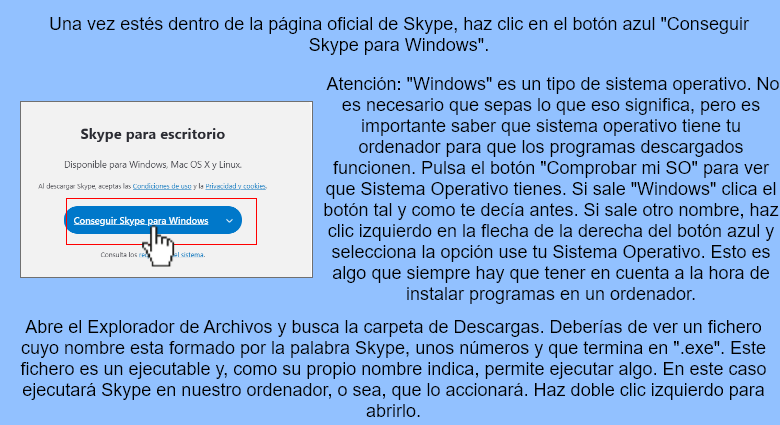
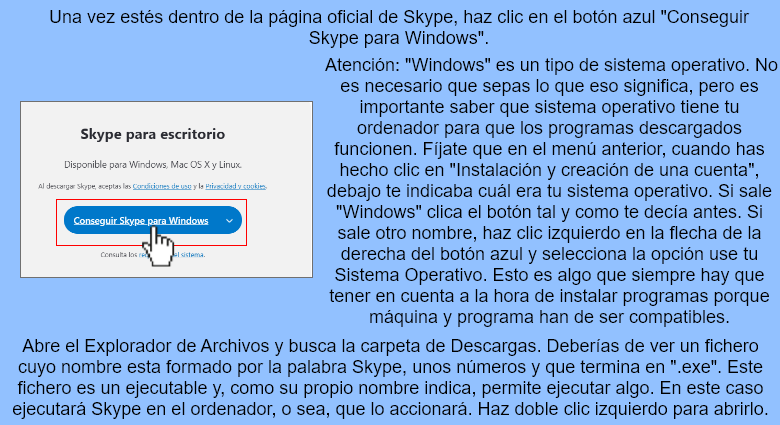
Operative System check added

diff --git a/src/components/SkypeLesson.js b/src/components/SkypeLesson.js
@@ -4,21 +4,31 @@ import {NavLink} from "react-router-dom";
 import {LessonSlider} from "./LessonSlider";
 import {useTranslation} from "react-i18next";
 
+function checkOS(platform) {
+    if (platform === "Win16" || platform ==="Win32" || platform ==="WinCE") return "Windows";
+    else if (platform === "Linux i686" || platform ==="Linux armv7l") return "Linux";
+    else return "Mac";
+}
+
 const SkypeLesson = () => {
     const [t] = useTranslation("global")
-    return(
+    return (
         <div className="center">
             <LessonSlider title="lessonContent.lesson61.title"/>
             <NavLink to={'/leccion6/inst'} style={{textDecoration: 'none'}}>
-                <Button className="skypeButton" size="large" color="primary" variant="contained" style={{ fontSize: '50px' }}>
+                <Button className="skypeButton" size="large" color="primary" variant="contained"
+                        style={{fontSize: '50px'}}>
                     {t("lessonContent.lesson61.intro1")}
                 </Button>
             </NavLink>
             <NavLink to={'/leccion6/func'} style={{textDecoration: 'none'}}>
-                <Button className="skypeButton" size="large" color="secondary" variant="contained" style={{ fontSize: '50px' }}>
+                <Button className="skypeButton" size="large" color="secondary" variant="contained"
+                        style={{fontSize: '50px'}}>
                     {t("lessonContent.lesson61.intro2")}
                 </Button>
             </NavLink>
+            <button className="OSButton">{t("lessonContent.lesson61.SO")+ checkOS(window.navigator.platform)}
+            </button>
         </div>
     );
 }

diff --git a/src/components/LessonStructure.js b/src/components/LessonStructure.js
@@ -7,12 +7,6 @@ import {useTranslation} from "react-i18next";
 
 let lastIndex = 0
 
-function checkOS(platform) {
-    if (platform === "Win16" || platform ==="Win32" || platform ==="WinCE") return "Windows";
-    else if (platform === "Linux i686" || platform ==="Linux armv7l") return "Linux";
-    else return "Mac";
-}
-
 export function LessonStructure({numOfButtons, contenido, lesson, prueba, nprueba}) {
 
     const [t, i18n] = useTranslation("global")
@@ -25,7 +19,6 @@ export function LessonStructure({numOfButtons, contenido, lesson, prueba, nprueb
     const imgENG = <img src={contenido[index].imgen} alt="img"/>
     const imgTEC = <div id="juego-teclado"><JuegoTeclado/></div>
     let elem, lastElem;
-    //const OS = checkOS(window.navigator.platform)
 
     function update(i) {
         lastElem = document.getElementById("button"+lastIndex);

diff --git a/src/App.css b/src/App.css
@@ -285,6 +285,29 @@ body {
 
 .skypeButton {
     width: 50%;
-    min-height: 500px;
+    min-height: 400px;
     max-height: 100%;
+}
+.OSButton {
+    position: relative;
+    display: inline-block;
+    box-sizing: border-box;
+    border-radius: 10px;
+    width: 100%;
+    height: 100px;
+    vertical-align: middle;
+    text-align: center;
+    text-overflow: ellipsis;
+    text-transform: uppercase;
+    color: black;
+    background-color: yellow;
+    font-family: var(--pure-material-font, "Roboto", "Segoe UI", BlinkMacSystemFont, system-ui, -apple-system);
+    font-size: 40px;
+    font-weight: 400;
+    outline: none;
+    cursor: pointer;
+    transition: box-shadow 0.2s;
+}
+.OSButton:hover {
+    box-shadow: 0 1px 20px 0 azure;
 }
